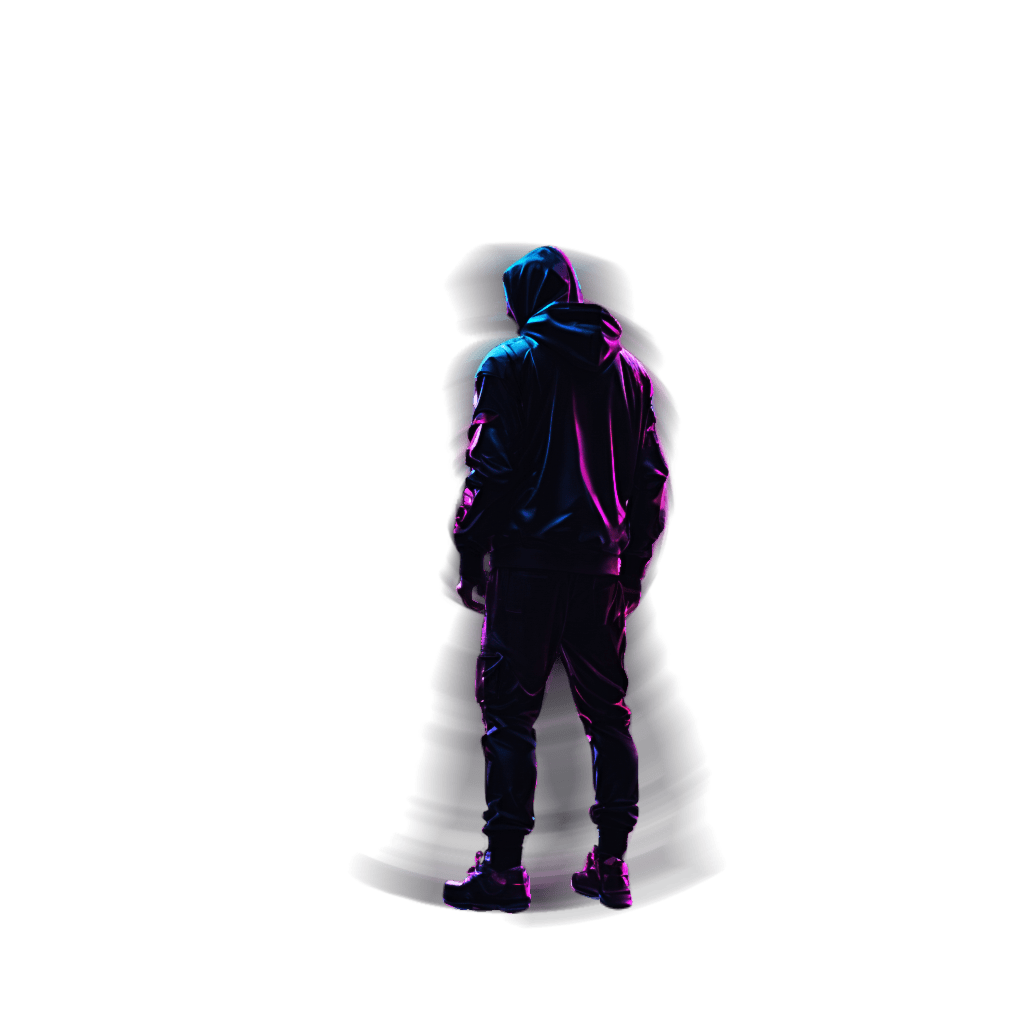
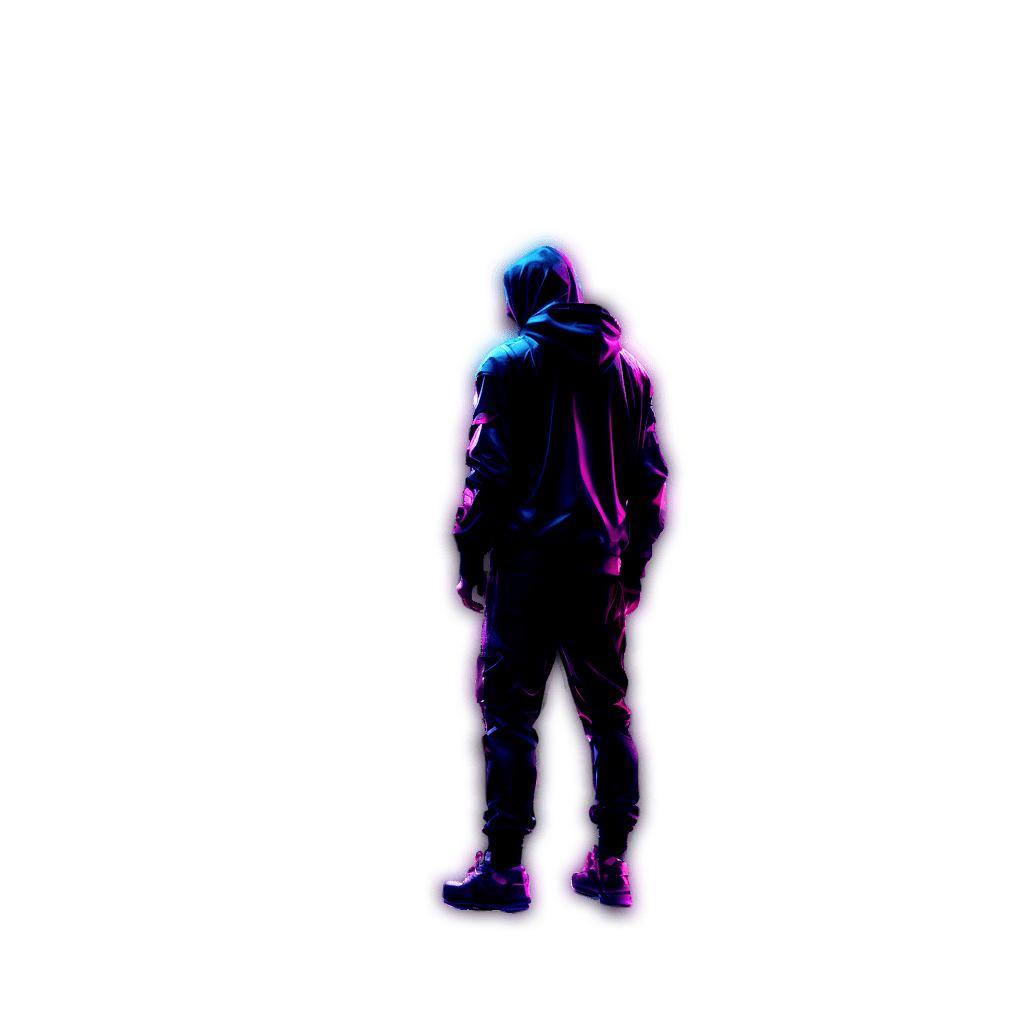
finish menu page

Changed region(s): [[0.3438, 0.2188, 0.6875, 0.9062]]

diff --git a/src/Pages/Menu/Menu.scss b/src/Pages/Menu/Menu.scss
@@ -1,12 +1,13 @@
 @import "../../variables.scss";
 
 .menu {
-  font-family: "Bungee Outline", sans-serif;
+  font-family: $empty-font;
   font-size: 130px;
   letter-spacing: 5px;
   margin-top: 35px;
-
   &-list {
+    position: relative;
+    z-index: 10;
     list-style: none;
     display: flex;
     flex-direction: column;
@@ -49,5 +50,52 @@
         opacity: 1;
       }
     }
+  }
+}
+
+.img-container {
+  position: absolute;
+  bottom: 0;
+  right: 0;
+  & img {
+    position: absolute;
+    bottom: 0;
+    right: 0;
+    transform: translate(12%, 0%);
+    &:nth-child(1) {
+      z-index: 1;
+      animation: guyMove 4s ease-out 1;
+    }
+    &:nth-child(2) {
+      transform: translate(15%, 1%);
+      animation: guyMoveShadow 4s ease-out 1;
+    }
+  }
+}
+
+.citation {
+  position: absolute;
+  bottom: 0;
+  right: 0;
+  font-size: 14px;
+  font-family: $text-font;
+  padding: 10px;
+  color: $blue-neon;
+}
+
+@keyframes guyMove {
+  0% {
+    transform: translate(14%, 0%);
+  }
+  100% {
+    transform: translate(12%, 0%);
+  }
+}
+@keyframes guyMoveShadow {
+  0% {
+    transform: translate(13%, 0%);
+  }
+  100% {
+    transform: translate(15%, 1%);
   }
 }

diff --git a/src/Pages/Menu/Menu.jsx b/src/Pages/Menu/Menu.jsx
@@ -29,13 +29,14 @@ const Menu = () => {
         </ul>
       </div>
       <div className="img-container">
-        <img src={menuGuy} alt="" />
-        <img src={menuGuyShadow} alt="" />
+        <img src={menuGuy} alt="guy dressed in neon colors" />
+        <img src={menuGuyShadow} alt="shadow of a guy dressed in neon colors" />
       </div>
       <div className="citation">
         <p>
-          "Lepiej bez celu iść naprzód niż bez celu stać w miejscu, a z
-          pewnością o niebo lepiej, niż bez celu się cofać." - Andrzej Sapkowski
+          "Lepiej bez celu iść naprzód niż bez celu stać w miejscu,
+          <br /> a z pewnością o niebo lepiej, niż bez celu się cofać." -
+          <strong> Andrzej Sapkowski</strong>
         </p>
       </div>
     </div>

diff --git a/src/variables.scss b/src/variables.scss
@@ -1,7 +1,7 @@
 // colors
-$bgc-color: #1b1b1b;
-$pink-neon: #ff1aff;
-$blue-neon: #0affff;
+$bgc-color: #131212;
+$pink-neon: #ad00a2;
+$blue-neon: #22aff8;
 $darkPink-neon: #8d1a8d;
 $darkBlue-neon: #117474;
 // fonts

diff --git a/src/App.scss b/src/App.scss
@@ -11,6 +11,7 @@
   align-items: center;
   min-height: 100vh;
   background-color: $bgc-color;
+  overflow: hidden;
 }
 
 .frame {
